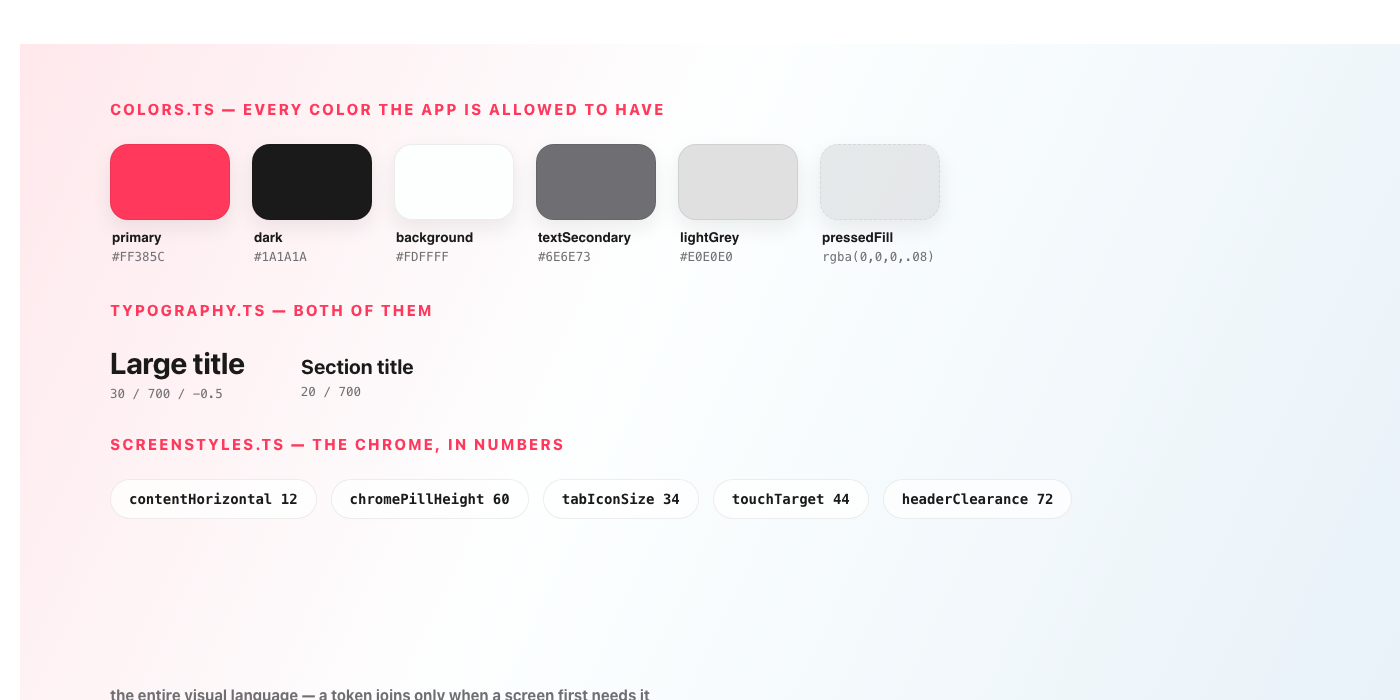
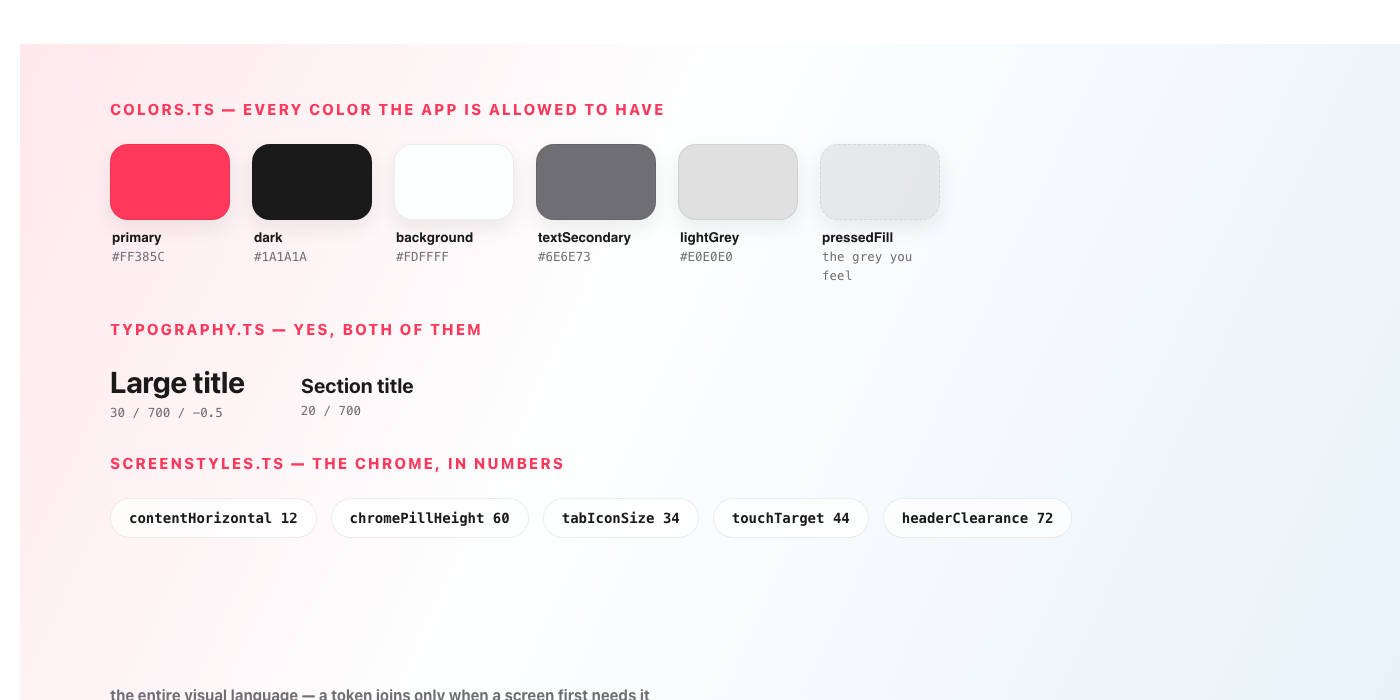
Post 02: human-voice rewrite (the six-round humbling as narrative; opinions, rhythm, zero info loss); token card wit

diff --git a/medium/02-app-shell.html b/medium/02-app-shell.html
@@ -6,34 +6,38 @@ img{max-width:100%}pre{background:#f5f5f5;padding:14px;overflow-x:auto;font-size
 <h1>Dressed to Ship</h1>
 <p><em>Zero to Shipped · 02 — design tokens, glass chrome, and a tab bar that&#39;s data: a fully themed app with zero features, on purpose.</em></p>
 <hr>
-<p><img src="https://raw.githubusercontent.com/srivardhanjalan/kivan-tutorial/main/mocks/mocks-hero-02.png?v=2794f63" alt="Step 02 — the shell running (real simulator screenshots)"></p>
-<p>This is step 02 of <strong>Zero to Shipped</strong>, a series where we build a real social product — iPhone, iPad, Android, and a live AWS backend — one deployable step at a time. New here? <strong><a href="https://medium.com/@srivardhanjalan/zero-to-shipped-2c13ce7e20e9">Start with the introduction</a></strong>. The code lives at <strong><a href="https://github.com/srivardhanjalan/kivan-tutorial">github.com/srivardhanjalan/kivan-tutorial</a></strong>; this post is the <code>02-app-shell/</code> folder, and <a href="https://github.com/srivardhanjalan/kivan-tutorial/pull/7/files">PR #7</a> shows every line this step adds.</p>
-<p>Today we build an app with <strong>no features whatsoever</strong> — and I&#39;ll argue it&#39;s the most important step in the series.</p>
-<h2>Why start with an empty shell?</h2>
-<p>Because consistency isn&#39;t something you add later. Every app-store-quality product you admire has one property tutorials never teach: every screen looks like it was made by the same hands. That doesn&#39;t come from discipline — it comes from <em>making inconsistency impossible</em>. That&#39;s this step:</p>
+<p><img src="https://raw.githubusercontent.com/srivardhanjalan/kivan-tutorial/main/mocks/mocks-hero-02.png?v=b042baa" alt="Step 02 — the shell running (real simulator screenshots)"></p>
+<p>Today we build an app that does nothing.</p>
+<p>Not &quot;a simple app.&quot; Nothing. Five tabs, and every one of them politely tells you its real screen hasn&#39;t arrived yet. If you demoed it to a friend they&#39;d ask when you&#39;re going to start.</p>
+<p>Here&#39;s my claim: this is the most important step in the series — and if you skip it, you&#39;ll spend week six of your project doing what I used to do, which is opening eleven screens one by one to fix the same padding.</p>
+<p>*(This is step 02 of <strong>Zero to Shipped</strong>, where we build a real social product one deployable step at a time. New here? <strong><a href="https://medium.com/@srivardhanjalan/zero-to-shipped-2c13ce7e20e9">Start with the introduction</a></strong>. The code is the <code>02-app-shell/</code> folder; <a href="https://github.com/srivardhanjalan/kivan-tutorial/pull/7/files">PR #7</a> shows every line.)*</p>
+<h2>Consistency isn&#39;t a habit, it&#39;s a jail</h2>
+<p>Every app you admire has one property tutorials never teach: every screen looks like the same person made it. That doesn&#39;t come from discipline. Discipline is what you have in week one. It comes from making inconsistency <em>impossible</em>:</p>
 <ul>
-<li><strong>Every visual decision is a token.</strong> Colors, type sizes, spacing, radii, shadows — all live in <code>src/constants/</code>. Screens import them; they never invent them. When we build eleven real screens in later steps, they&#39;ll look like one app because they <em>can&#39;t</em> look like anything else.</li>
-<li><strong>The chrome is shared, not copied.</strong> One floating header, one screen layout, one tab bar — components every screen composes instead of re-implementing.</li>
-<li><strong>Config is data, and it earns its way in.</strong> The tab bar is literally an array in <code>config/tabs.ts</code>; <code>config/app.ts</code> holds branding (the mark the loading spinner animates). Even the product&#39;s name and scheme live only in <code>app.json</code> for now — they join the config the moment code first consumes them, not before.</li>
+<li><strong>Every visual decision is a token.</strong> Colors, type, spacing, radii, shadows — they live in <code>src/constants/</code>, screens import them, and no screen ever invents a hex value. When we build real screens later, they&#39;ll look like this shell because they physically can&#39;t look like anything else.</li>
+<li><strong>The chrome is shared, not copied.</strong> One floating header, one screen scaffold, one tab bar. Components compose them; nobody re-implements them.</li>
+<li><strong>The app&#39;s identity is data.</strong> The tab bar is literally an array in <code>config/tabs.ts</code>. Hold that thought — it gets a payoff at the end.</li>
 </ul>
-<p>Run it:</p>
+<p>Run it (no backend, no accounts, no API keys — Expo Go and go):</p>
 <pre><code class="language-bash">cd 02-app-shell/frontend
 npm install
 npm run ios
 </code></pre>
-<p>No backend, no accounts, no API keys — it runs standalone in Expo Go.</p>
-<h2>The pieces</h2>
-<h3>Design tokens</h3>
-<p><code>src/constants/</code> is the whole visual language: <code>Colors.ts</code> (the <code>#FF385C</code> primary, surface tiers, text tiers), <code>Typography.ts</code> (the 30pt/700/-0.5 large title and the section title — the only two text styles this step uses), <code>ScreenStyles.ts</code> (the app-wide 12pt content edge, the 60pt chrome pill height, the 34pt tab icons), plus exactly one radius and one shadow recipe — because that&#39;s all the shell references. Even the pressed-state grey is a named token (<code>Colors.pressedFill</code>), the centering idiom is one shared style instead of seven copies — and the whole step passes a five-gate audit (types, dead code, clone detection, color literals, and an AI semantic-duplication reviewer) run to a fixed point. <strong>A token joins these files when a screen first needs it, never in advance.</strong> That rule holds for the whole series: every step carries only code with a caller, so every file you read is load-bearing.</p>
-<p><img src="https://raw.githubusercontent.com/srivardhanjalan/kivan-tutorial/main/mocks/mocks-02-tokens.png?v=2794f63" alt="The entire design system on one card — real token values"></p>
-<h3>The chrome</h3>
-<p>Two signature moves you saw in the mocks:</p>
+<h2>The tokens: fewer than you think</h2>
+<p><img src="https://raw.githubusercontent.com/srivardhanjalan/kivan-tutorial/main/mocks/mocks-02-tokens.png?v=b042baa" alt="The entire design system on one card — real token values"></p>
+<p><code>src/constants/</code> is the whole visual language, and here&#39;s the part that surprises people: <strong>Typography.ts contains two styles.</strong> Not a &quot;type scale.&quot; Two. The 30pt large title and the 20pt section title, because those are the only two styles this step <em>uses</em>.</p>
+<p>That&#39;s the series&#39; engineering rule doing its job: <strong>a token joins the file when a screen first needs it, never in advance.</strong> One radius (things that are fully round). One shadow recipe (things that float). Even the grey you feel when you press a button is a named token, <code>Colors.pressedFill</code>, because it appeared twice and a value that appears twice is a decision pretending to be a coincidence.</p>
+<h3>How I got humbled by my own linter</h3>
+<p>Confession: the first version of this step didn&#39;t follow the rule. I copied the full constants files from the finished app — a radius scale, a shadow menu, a dozen text styles — because <em>obviously</em> later steps would need them.</p>
+<p>Then I pointed the audit gate at it (types, dead-code analysis, clone detection, plus an AI reviewer told to hunt duplication by <em>meaning</em>), and it took <strong>six rounds</strong> to reach a clean pass. It found tokens with no callers. Then tokens whose only caller had just been deleted. Then a comment promising the spinner &quot;defaults to the logo&quot; while the code did no such thing. Then two names for the same concept. Every round I thought I was done; every round it found more. The step went from 1,670 lines to 829, rendering pixel-identical before and after.</p>
+<p>The lesson stuck: <strong>speculative code isn&#39;t foresight, it&#39;s inventory</strong> — and inventory rots. Every file in this step is load-bearing, and the gate that enforces it ships in the repo (<code>tools/audit-step.sh</code>), so you can hold your own steps to it.</p>
+<h2>The chrome: two moves you saw in the mocks</h2>
 <ul>
-<li><strong>The floating header</strong> doesn&#39;t blur or draw an edge. It paints a translucent wash of the page background that eases out to nothing — content scrolling under the title stays visible, just lighter. (The Apple large-title treatment, without a <code>BlurView</code>.)</li>
-<li><strong>The tab bar</strong> is two floating glass pills — main tabs on the left, search on its own pill on the right. Active tabs get a soft pressed fill and a filled icon variant.</li>
+<li><strong>The floating header doesn&#39;t blur, doesn&#39;t draw a line.</strong> It paints a translucent wash of the page background that eases to nothing — content scrolling under the title stays visible, just lighter. Apple&#39;s large-title feel without a <code>BlurView</code>.</li>
+<li><strong>The tab bar is two floating glass pills</strong> — main tabs left, search in its own pill on the right. The active tab gets a soft pressed fill and a filled icon. That&#39;s the whole affordance language: if it responds to your finger, it fills grey.</li>
 </ul>
-<h3>The tab bar is data</h3>
-<p>This is the jigsaw principle showing up on day one:</p>
+<p>Every tab mounts the same <code>PlaceholderScreen</code>, which exists to exercise the system end to end: a brief branded loading pulse, the header with a working action, a section header, an empty state, and a toast when you tap ✨. Zero features, every primitive proven.</p>
+<h2>The payoff: rename the app in one edit</h2>
 <pre><code class="language-ts">export const Tabs = [
   { key: &#39;HomeTab&#39;,          title: &#39;Home&#39;,          icon: &#39;home-outline&#39;,          iconActive: &#39;home&#39; },
   { key: &#39;AddWishTab&#39;,       title: &#39;Wish Store&#39;,    icon: &#39;gift-outline&#39;,          iconActive: &#39;gift&#39; },
@@ -41,24 +45,22 @@ npm run ios
   { key: &#39;NotificationsTab&#39;, title: &#39;Notifications&#39;, icon: &#39;notifications-outline&#39;, iconActive: &#39;notifications&#39; },
 ] as const satisfies readonly TabConfig[];
 </code></pre>
-<p><code>TabNavigation</code> renders whatever this array declares — it doesn&#39;t know what a wishlist is. The route-name union is <em>derived</em> from the config (<code>(typeof Tabs)[number][&#39;key&#39;]</code>), so adding a tab types the whole navigator automatically.</p>
-<p>Every tab mounts the same <code>PlaceholderScreen</code>, which exists to exercise the system end to end: the floating header with a working action button, a section header, an empty state, and a toast when you tap ✨.</p>
-<h2>Make it yours in five minutes</h2>
-<p>The point of config-driven identity is that <em>renaming the product is a data change</em>:</p>
+<p><code>TabNavigation</code> renders whatever this array says. It has never heard of wishlists. Even the route-name union is <em>derived</em> from the config, so adding a tab types the whole navigator for free.</p>
+<p>Which means you can steal the shell right now:</p>
 <ol>
-<li><code>app.json</code> — change <code>name</code> and <code>scheme</code> (the single identity source at this step)</li>
-<li><code>src/config/app.ts</code> — point <code>branding.spinnerLogo</code> at your own mark; the animated loader rebrands itself</li>
-<li><code>src/config/tabs.ts</code> — retitle the tabs: <code>Notes</code>, <code>Notebooks</code>, <code>Shared</code>…</li>
+<li><code>app.json</code> → your <code>name</code> and <code>scheme</code></li>
+<li><code>config/app.ts</code> → point <code>branding.spinnerLogo</code> at your mark; the loader rebrands itself</li>
+<li><code>config/tabs.ts</code> → <code>Trips</code>, <code>Journal</code>, whatever you&#39;re actually building</li>
 </ol>
-<p><img src="https://raw.githubusercontent.com/srivardhanjalan/kivan-tutorial/main/mocks/mocks-02-rename.png?v=2794f63" alt="Rename the app in one config edit — same shell, your app"></p>
-<p>Reload. Your app, your name, your tabs — and not one component file touched. Hold that thought for step 07, when the same trick swaps whole feature modules.</p>
+<p><img src="https://raw.githubusercontent.com/srivardhanjalan/kivan-tutorial/main/mocks/mocks-02-rename.png?v=b042baa" alt="Rename the app in one config edit — same shell, your app"></p>
+<p>Reload. Your app, your tabs, not one component file touched. This is the jigsaw principle at its smallest scale — in step 07 the same trick starts swapping whole feature modules.</p>
 <h2>Gotchas from the real run</h2>
 <ul>
 <li><strong>Metro port conflicts</strong> — running two steps at once? Add <code>--port 8083</code>.</li>
-<li><strong>Watchman can&#39;t hurt you here</strong> — <code>metro.config.js</code> opts into Metro&#39;s Node file watcher (<code>useWatchman: false</code>); on a project this size watchman adds no speed, only a failure mode (a stale daemon hangs Metro at &quot;Waiting for Watchman&quot;). One config line deletes the whole problem.</li>
+<li><strong>Watchman can&#39;t hurt you here</strong> — <code>metro.config.js</code> opts into Metro&#39;s Node file watcher (<code>useWatchman: false</code>). On a project this size watchman adds no speed, only a failure mode (a stale daemon hangs Metro at &quot;Waiting for Watchman&quot;). One config line deletes the entire problem.</li>
 <li><strong>Expo Go tracks the newest SDK</strong> — this project pins SDK 54 with a committed lockfile, so <code>npm install</code> gives you the exact working set. If Expo Go itself moves ahead months from now, <code>npx expo install --fix</code> realigns everything.</li>
-<li><strong>Physical device instead of a simulator?</strong> The npm scripts pass <code>--localhost</code> (immune to VPN/firewall weirdness on simulators); a real phone needs the LAN — run <code>npx expo start</code> without the flag, same Wi-Fi.</li>
-<li><strong><code>id={undefined}</code> on the navigator</strong> — React Navigation v7&#39;s types demand an explicit <code>id</code> even when you don&#39;t want one. It&#39;s deliberate; leave it.</li>
+<li><strong>Physical phone instead of a simulator?</strong> The npm scripts pass <code>--localhost</code> (immune to VPN/firewall weirdness on simulators); a real phone needs the LAN — <code>npx expo start</code> without the flag, same Wi-Fi.</li>
+<li><strong><code>id={undefined}</code> on the navigator</strong> — React Navigation v7&#39;s types demand an explicit <code>id</code> even when you don&#39;t want one. Deliberate; leave it.</li>
 </ul>
 <h2>You&#39;re done when</h2>
 <ul>
@@ -68,7 +70,7 @@ npm run ios
 <li>The ✨ button fires a toast</li>
 </ul>
 <h2>What&#39;s next</h2>
-<p>In <strong>step 03</strong> we leave the simulator: a FastAPI skeleton, Terraform for ECR + App Runner + monitoring, and the first real deploy — including the Apple Silicon Docker trap that fails only in production, and how the tutorial&#39;s build loop dodges it.</p>
+<p>In <strong>step 03</strong>, the app leaves the simulator: a FastAPI skeleton, Terraform for real AWS infrastructure, and a deploy that failed on me twice in ways your laptop will never warn you about. Every tab&#39;s placeholder gains a heartbeat.</p>
 <p><strong>Following along?</strong> ⭐ <a href="https://github.com/srivardhanjalan/kivan-tutorial">Star the repo</a> and follow me here so step 03 lands in your feed.</p>
 <hr>
 <p><strong>Zero to Shipped — the series</strong></p>
@@ -76,7 +78,7 @@ npm run ios
 <li><strong>00 · <a href="https://medium.com/@srivardhanjalan/zero-to-shipped-2c13ce7e20e9">Introduction</a></strong></li>
 <li><strong>01 · <a href="https://medium.com/@srivardhanjalan/one-script-to-set-up-everything-ae8bcea2d649">One script to set up everything</a></strong></li>
 <li><strong>02 · Dressed to Ship</strong> <em>(this post)</em></li>
-<li><strong>03 · Backend &amp; infra core</strong> <em>(coming soon)</em></li>
+<li><strong>03 · Alive on Arrival</strong> <em>(coming soon)</em></li>
 </ul>
 <p><em>All code: <a href="https://github.com/srivardhanjalan/kivan-tutorial">github.com/srivardhanjalan/kivan-tutorial</a></em></p>
 </body></html>

diff --git a/mocks/img-02-tokens.html b/mocks/img-02-tokens.html
@@ -27,9 +27,9 @@
     <div class="sw"><div class="chipbox" style="background:#FDFFFF"></div><p><b>background</b>#FDFFFF</p></div>
     <div class="sw"><div class="chipbox" style="background:#6E6E73"></div><p><b>textSecondary</b>#6E6E73</p></div>
     <div class="sw"><div class="chipbox" style="background:#E0E0E0"></div><p><b>lightGrey</b>#E0E0E0</p></div>
-    <div class="sw"><div class="chipbox" style="background:rgba(0,0,0,.08);border-style:dashed"></div><p><b>pressedFill</b>rgba(0,0,0,.08)</p></div>
+    <div class="sw"><div class="chipbox" style="background:rgba(0,0,0,.08);border-style:dashed"></div><p><b>pressedFill</b>the grey you feel</p></div>
   </div>
-  <h2>Typography.ts — both of them</h2>
+  <h2>Typography.ts — yes, both of them</h2>
   <div class="type">
     <div><div class="t1">Large title</div><p>30 / 700 / −0.5</p></div>
     <div><div class="t2">Section title</div><p>20 / 700</p></div>

diff --git a/medium/02-app-shell.md b/medium/02-app-shell.md
@@ -6,19 +6,23 @@
 
 ![Step 02 — the shell running (real simulator screenshots)](../mocks/mocks-hero-02.png)
 
-This is step 02 of **Zero to Shipped**, a series where we build a real social product — iPhone, iPad, Android, and a live AWS backend — one deployable step at a time. New here? **[Start with the introduction](https://medium.com/@srivardhanjalan/zero-to-shipped-2c13ce7e20e9)**. The code lives at **[github.com/srivardhanjalan/kivan-tutorial](https://github.com/srivardhanjalan/kivan-tutorial)**; this post is the `02-app-shell/` folder, and [PR #7](https://github.com/srivardhanjalan/kivan-tutorial/pull/7/files) shows every line this step adds.
+Today we build an app that does nothing.
 
-Today we build an app with **no features whatsoever** — and I'll argue it's the most important step in the series.
+Not "a simple app." Nothing. Five tabs, and every one of them politely tells you its real screen hasn't arrived yet. If you demoed it to a friend they'd ask when you're going to start.
 
-## Why start with an empty shell?
+Here's my claim: this is the most important step in the series — and if you skip it, you'll spend week six of your project doing what I used to do, which is opening eleven screens one by one to fix the same padding.
 
-Because consistency isn't something you add later. Every app-store-quality product you admire has one property tutorials never teach: every screen looks like it was made by the same hands. That doesn't come from discipline — it comes from *making inconsistency impossible*. That's this step:
+*(This is step 02 of **Zero to Shipped**, where we build a real social product one deployable step at a time. New here? **[Start with the introduction](https://medium.com/@srivardhanjalan/zero-to-shipped-2c13ce7e20e9)**. The code is the `02-app-shell/` folder; [PR #7](https://github.com/srivardhanjalan/kivan-tutorial/pull/7/files) shows every line.)*
 
-- **Every visual decision is a token.** Colors, type sizes, spacing, radii, shadows — all live in `src/constants/`. Screens import them; they never invent them. When we build eleven real screens in later steps, they'll look like one app because they *can't* look like anything else.
-- **The chrome is shared, not copied.** One floating header, one screen layout, one tab bar — components every screen composes instead of re-implementing.
-- **Config is data, and it earns its way in.** The tab bar is literally an array in `config/tabs.ts`; `config/app.ts` holds branding (the mark the loading spinner animates). Even the product's name and scheme live only in `app.json` for now — they join the config the moment code first consumes them, not before.
+## Consistency isn't a habit, it's a jail
 
-Run it:
+Every app you admire has one property tutorials never teach: every screen looks like the same person made it. That doesn't come from discipline. Discipline is what you have in week one. It comes from making inconsistency *impossible*:
+
+- **Every visual decision is a token.** Colors, type, spacing, radii, shadows — they live in `src/constants/`, screens import them, and no screen ever invents a hex value. When we build real screens later, they'll look like this shell because they physically can't look like anything else.
+- **The chrome is shared, not copied.** One floating header, one screen scaffold, one tab bar. Components compose them; nobody re-implements them.
+- **The app's identity is data.** The tab bar is literally an array in `config/tabs.ts`. Hold that thought — it gets a payoff at the end.
+
+Run it (no backend, no accounts, no API keys — Expo Go and go):
 
 ```bash
 cd 02-app-shell/frontend
@@ -26,26 +30,30 @@ npm install
 npm run ios
 ```
 
-No backend, no accounts, no API keys — it runs standalone in Expo Go.
-
-## The pieces
-
-### Design tokens
-
-`src/constants/` is the whole visual language: `Colors.ts` (the `#FF385C` primary, surface tiers, text tiers), `Typography.ts` (the 30pt/700/-0.5 large title and the section title — the only two text styles this step uses), `ScreenStyles.ts` (the app-wide 12pt content edge, the 60pt chrome pill height, the 34pt tab icons), plus exactly one radius and one shadow recipe — because that's all the shell references. Even the pressed-state grey is a named token (`Colors.pressedFill`), the centering idiom is one shared style instead of seven copies — and the whole step passes a five-gate audit (types, dead code, clone detection, color literals, and an AI semantic-duplication reviewer) run to a fixed point. **A token joins these files when a screen first needs it, never in advance.** That rule holds for the whole series: every step carries only code with a caller, so every file you read is load-bearing.
+## The tokens: fewer than you think
 
 ![The entire design system on one card — real token values](../mocks/mocks-02-tokens.png)
 
-### The chrome
+`src/constants/` is the whole visual language, and here's the part that surprises people: **Typography.ts contains two styles.** Not a "type scale." Two. The 30pt large title and the 20pt section title, because those are the only two styles this step *uses*.
 
-Two signature moves you saw in the mocks:
+That's the series' engineering rule doing its job: **a token joins the file when a screen first needs it, never in advance.** One radius (things that are fully round). One shadow recipe (things that float). Even the grey you feel when you press a button is a named token, `Colors.pressedFill`, because it appeared twice and a value that appears twice is a decision pretending to be a coincidence.
 
-- **The floating header** doesn't blur or draw an edge. It paints a translucent wash of the page background that eases out to nothing — content scrolling under the title stays visible, just lighter. (The Apple large-title treatment, without a `BlurView`.)
-- **The tab bar** is two floating glass pills — main tabs on the left, search on its own pill on the right. Active tabs get a soft pressed fill and a filled icon variant.
+### How I got humbled by my own linter
 
-### The tab bar is data
+Confession: the first version of this step didn't follow the rule. I copied the full constants files from the finished app — a radius scale, a shadow menu, a dozen text styles — because *obviously* later steps would need them.
 
-This is the jigsaw principle showing up on day one:
+Then I pointed the audit gate at it (types, dead-code analysis, clone detection, plus an AI reviewer told to hunt duplication by *meaning*), and it took **six rounds** to reach a clean pass. It found tokens with no callers. Then tokens whose only caller had just been deleted. Then a comment promising the spinner "defaults to the logo" while the code did no such thing. Then two names for the same concept. Every round I thought I was done; every round it found more. The step went from 1,670 lines to 829, rendering pixel-identical before and after.
+
+The lesson stuck: **speculative code isn't foresight, it's inventory** — and inventory rots. Every file in this step is load-bearing, and the gate that enforces it ships in the repo (`tools/audit-step.sh`), so you can hold your own steps to it.
+
+## The chrome: two moves you saw in the mocks
+
+- **The floating header doesn't blur, doesn't draw a line.** It paints a translucent wash of the page background that eases to nothing — content scrolling under the title stays visible, just lighter. Apple's large-title feel without a `BlurView`.
+- **The tab bar is two floating glass pills** — main tabs left, search in its own pill on the right. The active tab gets a soft pressed fill and a filled icon. That's the whole affordance language: if it responds to your finger, it fills grey.
+
+Every tab mounts the same `PlaceholderScreen`, which exists to exercise the system end to end: a brief branded loading pulse, the header with a working action, a section header, an empty state, and a toast when you tap ✨. Zero features, every primitive proven.
+
+## The payoff: rename the app in one edit
 
 ```ts
 export const Tabs = [
@@ -56,29 +64,25 @@ export const Tabs = [
 ] as const satisfies readonly TabConfig[];
 ```
 
-`TabNavigation` renders whatever this array declares — it doesn't know what a wishlist is. The route-name union is *derived* from the config (`(typeof Tabs)[number]['key']`), so adding a tab types the whole navigator automatically.
+`TabNavigation` renders whatever this array says. It has never heard of wishlists. Even the route-name union is *derived* from the config, so adding a tab types the whole navigator for free.
 
-Every tab mounts the same `PlaceholderScreen`, which exists to exercise the system end to end: the floating header with a working action button, a section header, an empty state, and a toast when you tap ✨.
+Which means you can steal the shell right now:
 
-## Make it yours in five minutes
-
-The point of config-driven identity is that *renaming the product is a data change*:
-
-1. `app.json` — change `name` and `scheme` (the single identity source at this step)
-2. `src/config/app.ts` — point `branding.spinnerLogo` at your own mark; the animated loader rebrands itself
-3. `src/config/tabs.ts` — retitle the tabs: `Notes`, `Notebooks`, `Shared`…
+1. `app.json` → your `name` and `scheme`
+2. `config/app.ts` → point `branding.spinnerLogo` at your mark; the loader rebrands itself
+3. `config/tabs.ts` → `Trips`, `Journal`, whatever you're actually building
 
 ![Rename the app in one config edit — same shell, your app](../mocks/mocks-02-rename.png)
 
-Reload. Your app, your name, your tabs — and not one component file touched. Hold that thought for step 07, when the same trick swaps whole feature modules.
+Reload. Your app, your tabs, not one component file touched. This is the jigsaw principle at its smallest scale — in step 07 the same trick starts swapping whole feature modules.
 
 ## Gotchas from the real run
 
 - **Metro port conflicts** — running two steps at once? Add `--port 8083`.
-- **Watchman can't hurt you here** — `metro.config.js` opts into Metro's Node file watcher (`useWatchman: false`); on a project this size watchman adds no speed, only a failure mode (a stale daemon hangs Metro at "Waiting for Watchman"). One config line deletes the whole problem.
+- **Watchman can't hurt you here** — `metro.config.js` opts into Metro's Node file watcher (`useWatchman: false`). On a project this size watchman adds no speed, only a failure mode (a stale daemon hangs Metro at "Waiting for Watchman"). One config line deletes the entire problem.
 - **Expo Go tracks the newest SDK** — this project pins SDK 54 with a committed lockfile, so `npm install` gives you the exact working set. If Expo Go itself moves ahead months from now, `npx expo install --fix` realigns everything.
-- **Physical device instead of a simulator?** The npm scripts pass `--localhost` (immune to VPN/firewall weirdness on simulators); a real phone needs the LAN — run `npx expo start` without the flag, same Wi-Fi.
-- **`id={undefined}` on the navigator** — React Navigation v7's types demand an explicit `id` even when you don't want one. It's deliberate; leave it.
+- **Physical phone instead of a simulator?** The npm scripts pass `--localhost` (immune to VPN/firewall weirdness on simulators); a real phone needs the LAN — `npx expo start` without the flag, same Wi-Fi.
+- **`id={undefined}` on the navigator** — React Navigation v7's types demand an explicit `id` even when you don't want one. Deliberate; leave it.
 
 ## You're done when
 
@@ -89,7 +93,7 @@ Reload. Your app, your name, your tabs — and not one component file touched. H
 
 ## What's next
 
-In **step 03** we leave the simulator: a FastAPI skeleton, Terraform for ECR + App Runner + monitoring, and the first real deploy — including the Apple Silicon Docker trap that fails only in production, and how the tutorial's build loop dodges it.
+In **step 03**, the app leaves the simulator: a FastAPI skeleton, Terraform for real AWS infrastructure, and a deploy that failed on me twice in ways your laptop will never warn you about. Every tab's placeholder gains a heartbeat.
 
 **Following along?** ⭐ [Star the repo](https://github.com/srivardhanjalan/kivan-tutorial) and follow me here so step 03 lands in your feed.
 
@@ -100,6 +104,6 @@ In **step 03** we leave the simulator: a FastAPI skeleton, Terraform for ECR + A
 - **00 · [Introduction](https://medium.com/@srivardhanjalan/zero-to-shipped-2c13ce7e20e9)**
 - **01 · [One script to set up everything](https://medium.com/@srivardhanjalan/one-script-to-set-up-everything-ae8bcea2d649)**
 - **02 · Dressed to Ship** *(this post)*
-- **03 · Backend & infra core** *(coming soon)*
+- **03 · Alive on Arrival** *(coming soon)*
 
 *All code: [github.com/srivardhanjalan/kivan-tutorial](https://github.com/srivardhanjalan/kivan-tutorial)*